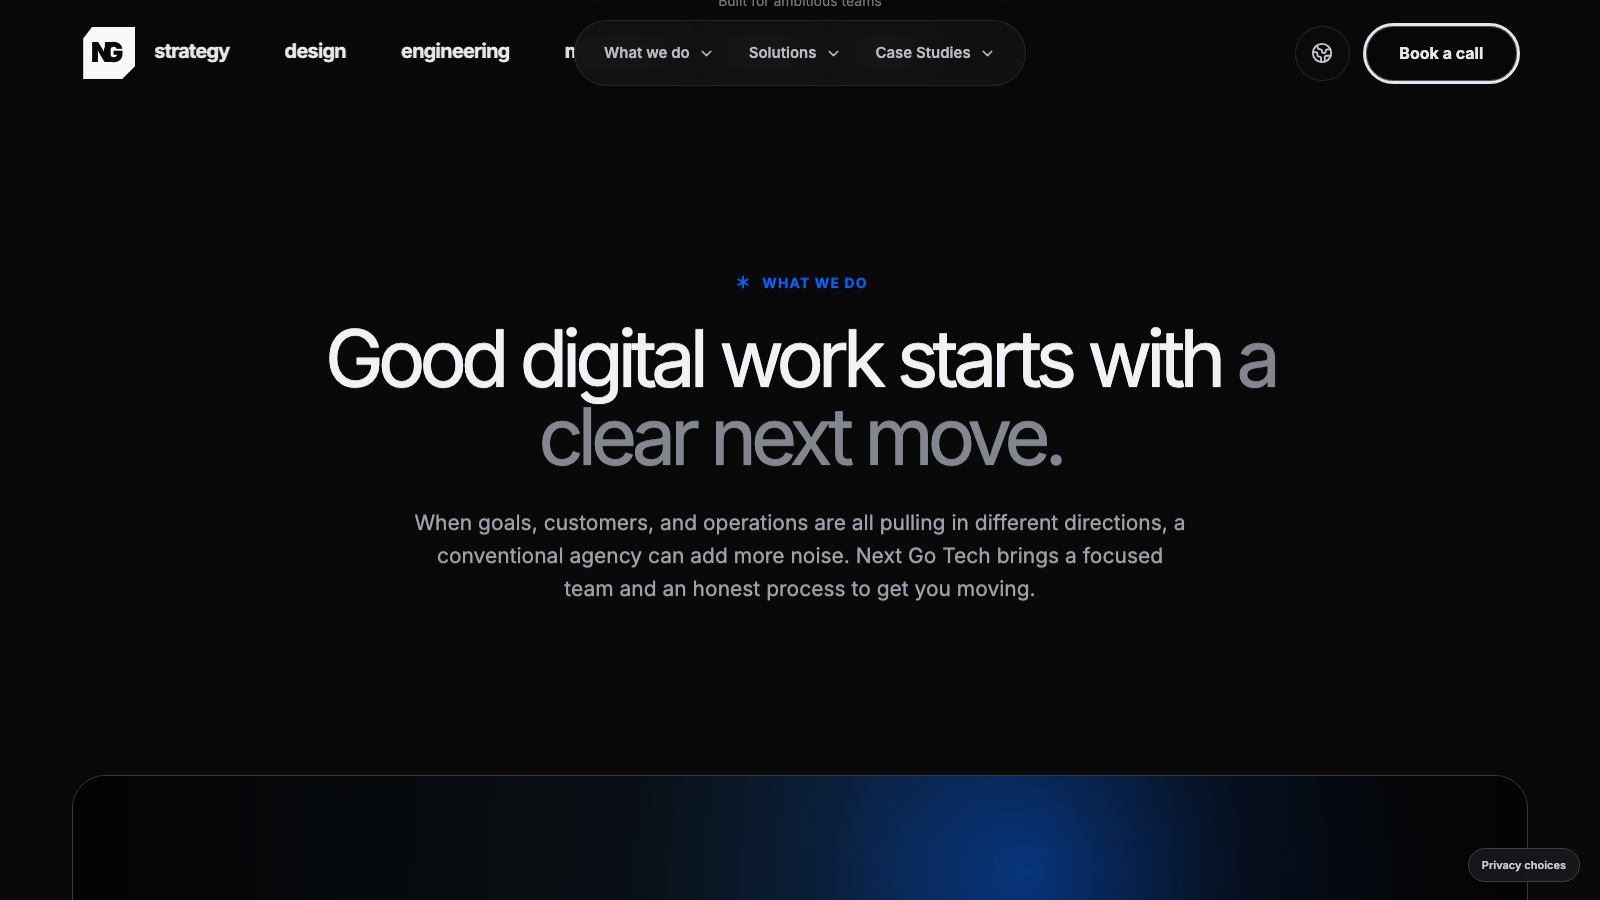
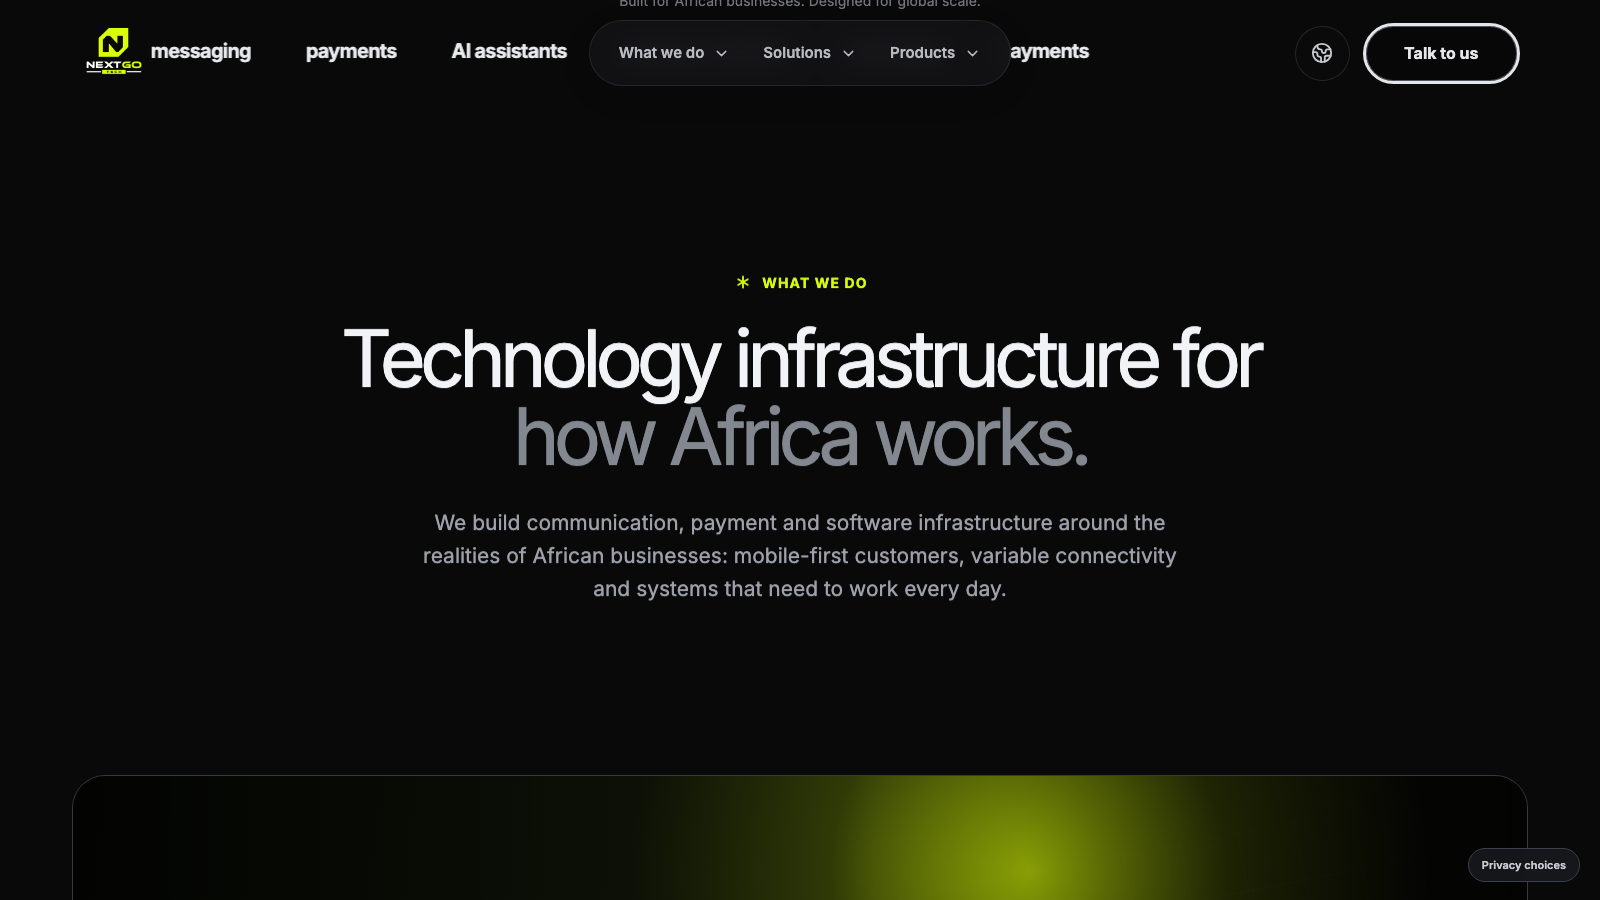
Rebrand with Next Go lime identity

diff --git a/src/data/site.ts b/src/data/site.ts
@@ -69,18 +69,18 @@ export const services: Service[] = [
 ];
 
 export const solutions: Solution[] = [
-  { slug: 'communication-solutions', title: 'Communication Solutions', description: 'Reach and support customers across the channels they already use.', longDescription: 'Messaging, voice and customer communication infrastructure tailored to the way your organisation serves its customers.', icon: MessageSquareText, accent: '#bfff00', points: ['Bulk SMS integration', 'WhatsApp Business integration', 'Voice and call solutions'] },
-  { slug: 'payment-solutions', title: 'Payment Solutions', description: 'Collect, disburse and reconcile payments across African payment rails.', longDescription: 'Payment infrastructure that connects collection, disbursement and reconciliation to your existing systems.', icon: WalletCards, accent: '#83f04a', points: ['Mobile money integration', 'Payment gateway integration', 'Reconciliation tooling'] },
-  { slug: 'customer-engagement', title: 'Customer Engagement', description: 'Understand and grow relationships with your customers.', longDescription: 'Connected engagement tools for customer support, relationship management and audience interaction.', icon: UsersRound, accent: '#7dd3fc', points: ['CRM implementation', 'AI assistants', 'StudioPass audience engagement'] },
-  { slug: 'digital-transformation', title: 'Digital Transformation', description: 'Modernize how your business builds and operates software.', longDescription: 'Custom software, integrations and operational infrastructure for organisations evolving the way they work.', icon: Layers3, accent: '#c4b5fd', points: ['Custom software development', 'Business process automation', 'Enterprise system integration'] },
+  { slug: 'communication-solutions', title: 'Communication Solutions', description: 'Reach and support customers across the channels they already use.', longDescription: 'Messaging, voice and customer communication infrastructure tailored to the way your organisation serves its customers.', icon: MessageSquareText, accent: '#dbff09', points: ['Bulk SMS integration', 'WhatsApp Business integration', 'Voice and call solutions'] },
+  { slug: 'payment-solutions', title: 'Payment Solutions', description: 'Collect, disburse and reconcile payments across African payment rails.', longDescription: 'Payment infrastructure that connects collection, disbursement and reconciliation to your existing systems.', icon: WalletCards, accent: '#c5eb08', points: ['Mobile money integration', 'Payment gateway integration', 'Reconciliation tooling'] },
+  { slug: 'customer-engagement', title: 'Customer Engagement', description: 'Understand and grow relationships with your customers.', longDescription: 'Connected engagement tools for customer support, relationship management and audience interaction.', icon: UsersRound, accent: '#efff74', points: ['CRM implementation', 'AI assistants', 'StudioPass audience engagement'] },
+  { slug: 'digital-transformation', title: 'Digital Transformation', description: 'Modernize how your business builds and operates software.', longDescription: 'Custom software, integrations and operational infrastructure for organisations evolving the way they work.', icon: Layers3, accent: '#9dba06', points: ['Custom software development', 'Business process automation', 'Enterprise system integration'] },
 ];
 
 export const products: Product[] = [
-  { slug: 'studiopass', title: 'StudioPass', description: 'The audience-engagement operating system for radio and TV stations — turning listener and viewer interaction into managed, monetized, on-air content.', icon: Radio, accent: '#bfff00', features: ['TV & radio station management', 'Show & presenter scheduling', 'Moderated message & song-request queue', 'Live chat with voice notes & attachments', 'Mobile money monetization', 'Cashflow & listener statements', 'Sponsor & brand campaign management', 'Audience challenges, quizzes & games', 'Coins & rewards system', 'Role-based access for station teams'] },
-  { slug: 'messaging-platform', title: 'Messaging Platform', description: 'Reach customers through messaging infrastructure designed for modern African businesses.', icon: MessageSquareText, accent: '#7dd3fc', features: ['Bulk SMS', 'WhatsApp Business', 'OTP delivery'] },
-  { slug: 'payment-solutions', title: 'Payment Solutions', description: 'Collect payments and manage transactions with African payment infrastructure.', icon: WalletCards, accent: '#83f04a', features: ['Mobile money', 'Card payments', 'Payment links', 'Reconciliation'] },
-  { slug: 'ai-assistants', title: 'AI Assistants', description: 'AI-powered assistants for customer support and business automation.', icon: Bot, accent: '#c4b5fd', features: ['Customer support automation', 'Workflow assistance'] },
-  { slug: 'business-software', title: 'Business Software', description: 'Custom software and business systems built for the way African businesses operate.', icon: Code2, accent: '#facc15', features: ['Custom software development', 'CRM implementation', 'System integration'] },
+  { slug: 'studiopass', title: 'StudioPass', description: 'The audience-engagement operating system for radio and TV stations — turning listener and viewer interaction into managed, monetized, on-air content.', icon: Radio, accent: '#dbff09', features: ['TV & radio station management', 'Show & presenter scheduling', 'Moderated message & song-request queue', 'Live chat with voice notes & attachments', 'Mobile money monetization', 'Cashflow & listener statements', 'Sponsor & brand campaign management', 'Audience challenges, quizzes & games', 'Coins & rewards system', 'Role-based access for station teams'] },
+  { slug: 'messaging-platform', title: 'Messaging Platform', description: 'Reach customers through messaging infrastructure designed for modern African businesses.', icon: MessageSquareText, accent: '#efff74', features: ['Bulk SMS', 'WhatsApp Business', 'OTP delivery'] },
+  { slug: 'payment-solutions', title: 'Payment Solutions', description: 'Collect payments and manage transactions with African payment infrastructure.', icon: WalletCards, accent: '#c5eb08', features: ['Mobile money', 'Card payments', 'Payment links', 'Reconciliation'] },
+  { slug: 'ai-assistants', title: 'AI Assistants', description: 'AI-powered assistants for customer support and business automation.', icon: Bot, accent: '#9dba06', features: ['Customer support automation', 'Workflow assistance'] },
+  { slug: 'business-software', title: 'Business Software', description: 'Custom software and business systems built for the way African businesses operate.', icon: Code2, accent: '#f4ff45', features: ['Custom software development', 'CRM implementation', 'System integration'] },
 ];
 
 export const values = [

diff --git a/src/app/globals.css b/src/app/globals.css
@@ -2,7 +2,7 @@
 @tailwind components;
 @tailwind utilities;
 
-:root { --bg: #090909; --surface: #17191d; --surface-2: #1e2127; --line: #292c33; --text: #f5f6fa; --muted: #a0a3ad; --blue: #0866ff; --blue-2: #1877f2; --max: 1310px; }
+:root { --bg: #090909; --surface: #17191d; --surface-2: #1e2127; --line: #292c33; --text: #f5f6fa; --muted: #a0a3ad; --blue: #dbff09; --blue-2: #efff74; --max: 1310px; }
 * { box-sizing: border-box; }
 html { scroll-behavior: smooth; background: var(--bg); }
 body { margin: 0; background: var(--bg); color: var(--text); font-family: var(--font-inter), Arial, sans-serif; overflow-x: hidden; }
@@ -42,3 +42,14 @@ main { min-height: 70vh; } h1, h2, h3, p { margin-top: 0; } p { color: var(--mut
 .privacy-launcher { position:fixed;z-index:70;right:20px;bottom:18px;border:1px solid #3b414c;background:rgba(23,25,29,.88);backdrop-filter:blur(9px);border-radius:999px;min-height:34px;padding:0 13px;color:#c7cad1;font-size:11px;font-weight:600;transition:border-color .2s ease,color .2s ease; }.privacy-launcher:hover { border-color:var(--blue);color:#fff; }
 @media (max-width:760px) { .privacy-launcher { right:11px;bottom:11px; } }
 @media (prefers-reduced-motion: reduce) { *,*::before,*::after { animation-duration:.01ms!important;animation-iteration-count:1!important;scroll-behavior:auto!important;transition-duration:.01ms!important; } }
+
+/* Next Go Tech lime identity — derived from the supplied logo. */
+:root { --blue: #dbff09; --blue-2: #efff74; --lime-deep: #9dba06; --lime-soft: rgba(219,255,9,.16); --lime-glow: rgba(219,255,9,.34); }
+button:focus-visible, a:focus-visible, input:focus-visible, textarea:focus-visible { outline-color: var(--blue); }
+.button.primary { background: var(--blue); color: #080a04; box-shadow: 0 0 0 0 var(--lime-soft); }.button.primary:hover { background: var(--blue-2); color: #080a04; box-shadow: 0 12px 30px var(--lime-glow); }.button.outline:hover { background: var(--lime-soft); }
+.brand { gap: 0; }.brand-logo { position: relative; display: block; width: 62px; height: 62px; flex: 0 0 auto; overflow: hidden; }.brand-logo img { object-fit: contain; object-position: center; }.brand-logo-footer { width: 176px; height: 116px; }
+.nav-pill button.active, .language:hover, .mega-link > span, .mega-intro a, .case-menu a, .attribute-grid svg, .capability-chip svg, .work-card > svg, .contact-cta svg, .card-arrow, .process-grid b, .career-grid b, .internship-grid b, .values-grid b, .process-grid svg, .detail-body li span, .case-spec li svg, .journey-shape span, .simple-detail-list b, .location-card p svg, .booking-intro li svg, .culture-grid svg, .privacy-note svg, .footer-grid svg { color: var(--blue); }
+.card-arrow, .journey-shape span, .mini-logo { background: var(--blue); color: #080a04; }.mega-link:hover { background: var(--lime-soft); }.visual-card:hover { border-color: var(--blue); }.capability-chip:hover { border-color: var(--blue); }.footer-grid a:hover, .footer-bottom a:hover, .text-link:hover { color: var(--blue-2); }
+.hero-art img { filter: hue-rotate(-146deg) saturate(1.75) brightness(1.1); }.hero-chat { color: #080a04; }.hero-chat.one { background: #dbff09; }.hero-chat.two { background: #c5eb08; }.studio-glow { background: radial-gradient(circle, #dbff09 0, rgba(219,255,9,.24) 33%, transparent 67%); }.studio-photo { background: linear-gradient(105deg, #12180a 0%, #171f0b 45%, #0c0e08 75%); }.contact-cta::before, .page-hero::before { background: radial-gradient(ellipse, rgba(219,255,9,.22), transparent 65%); }.careers-hero { background: radial-gradient(circle at 71% 33%, rgba(219,255,9,.24), transparent 25%); }
+.journey-shape i:nth-child(1) { border-color: var(--lime-deep); }.field em { color: var(--blue); }.field input:focus, .field textarea:focus { border-color: var(--blue); }.consent input { accent-color: var(--blue); }.form-success > span, .booking-confirm > span { background: var(--lime-soft); color: var(--blue); }.map-art { background: linear-gradient(145deg, #596518, #1a2109); }.map-art i { background: var(--blue); box-shadow: 0 0 0 11px var(--lime-soft); }.booking-intro { background: radial-gradient(circle at 25% 5%, rgba(219,255,9,.46), transparent 42%), #16191f; }.slots button:hover, .slots button.selected { border-color: var(--blue); background: var(--lime-soft); }.privacy-note { border-color: var(--lime-deep); background: var(--lime-soft); }.privacy-launcher:hover { border-color: var(--blue); color: var(--blue); }
+@media (max-width: 760px) { .brand-logo { width: 56px; height: 56px; }.brand-logo-footer { width: 160px; height: 106px; } }

diff --git a/src/components/layout/SiteHeader.tsx b/src/components/layout/SiteHeader.tsx
@@ -1,6 +1,7 @@
 'use client';
 
 import Link from 'next/link';
+import Image from 'next/image';
 import { useEffect, useRef, useState } from 'react';
 import { ChevronDown, Globe2, Menu, X } from 'lucide-react';
 import { products, services, solutions } from '@/data/site';
@@ -16,8 +17,9 @@ const menuLinks = [
 export function Mark({ full = false }: { full?: boolean }) {
   return (
     <Link href="/" className="brand" aria-label="Next Go Tech Africa home">
-      <span className="brand-mark"><i>N</i><b>G</b></span>
-      {full && <span className="brand-name">NEXT GO <em>TECH AFRICA</em></span>}
+      <span className={`brand-logo ${full ? 'brand-logo-footer' : ''}`}>
+        <Image src="/images/logos/logo.png" alt="Next Go Tech" fill sizes={full ? '210px' : '58px'} priority={!full} />
+      </span>
     </Link>
   );
 }

diff --git a/src/components/sections/VisualCard.tsx b/src/components/sections/VisualCard.tsx
@@ -1,5 +1,5 @@
 import type { LucideIcon } from 'lucide-react';
 
-export function VisualCard({ title, text, Icon, color = '#0866ff', number }: { title: string; text: string; Icon: LucideIcon; color?: string; number?: string }) {
+export function VisualCard({ title, text, Icon, color = '#dbff09', number }: { title: string; text: string; Icon: LucideIcon; color?: string; number?: string }) {
   return <article className="visual-card" style={{ '--card-accent': color } as React.CSSProperties}><div className="card-visual"><div className="orb orb-one"/><div className="orb orb-two"/><div className="mini-window"><Icon size={35}/><span>{number ?? '01'}</span></div><div className="chart-lines"><i/><i/><i/><i/><i/></div></div><h3>{title}</h3><p>{text}</p></article>;
 }

diff --git a/tests/site.spec.ts b/tests/site.spec.ts
@@ -3,6 +3,7 @@ import { expect, test } from '@playwright/test';
 test('floating header opens the Solutions menu and compacts on scroll', async ({ page }) => {
   await page.goto('/');
   await expect(page.getByRole('heading', { name: "Powering Africa's digital future." })).toBeVisible();
+  await expect(page.getByRole('img', { name: 'Next Go Tech' }).first()).toBeVisible();
   await page.getByRole('button', { name: 'Solutions' }).click();
   await expect(page.getByRole('region', { name: 'Solutions' })).toBeVisible();
   await expect(page.getByRole('link', { name: 'Communication Solutions' })).toBeVisible();
